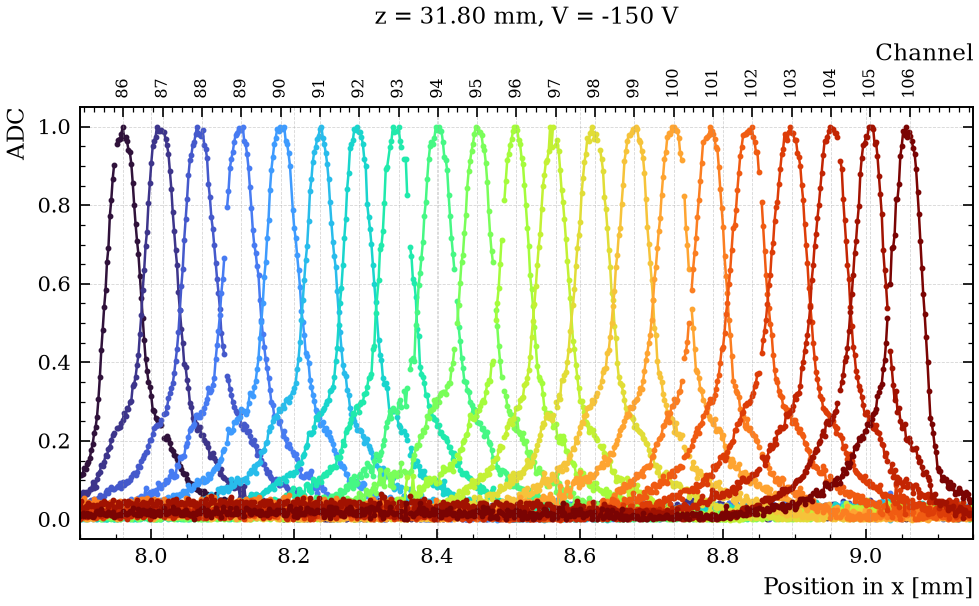
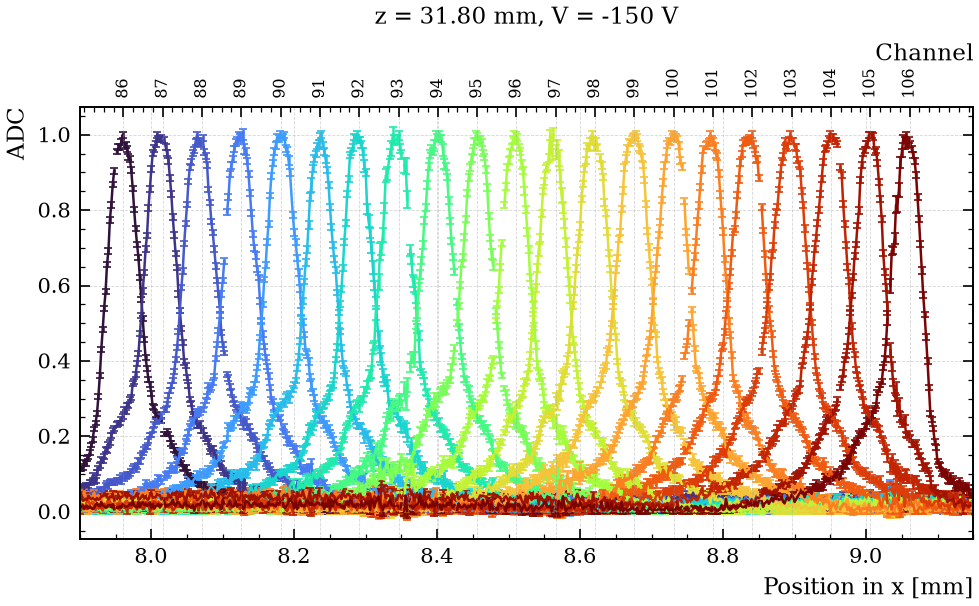
ana

diff --git a/bias_scan.py b/bias_scan.py
@@ -1,0 +1,86 @@
+"""
+Example analysis: mean cleaned ADC against channel, over all runs.
+
+    python3 adc_vs_channel_ana.py data/*.csv -ped pedestals.csv \
+        -plots plots/ -conf config_example.toml -cache cache/run.parquet
+"""
+
+import matplotlib.pyplot as plt
+import matplotlib.ticker as tck
+import pandas as pd
+import numpy as np
+import warnings
+from scipy.optimize import curve_fit
+from scipy.optimize import OptimizeWarning
+
+from base_analysis import BaseAnalysis, isdir
+from fits import box_gaussian
+
+ADC_CLEAN = "adc_clean"   # per run and channel: value = mean ADC, error = its standard error
+
+
+class BiasScan(BaseAnalysis):
+    CACHE_TAG = "bias_scan"
+    CACHE_VERSION = 1
+    QUANTITIES = (ADC_CLEAN,)
+    # plot() writes ch_to_x to the config, so a change of it must not count as a new setting here
+    PLOT_KEYS = BaseAnalysis.PLOT_KEYS + ("ch_to_x",)
+
+    def process(self, df: pd.DataFrame, df_id: int, z: float, x: float) -> None:
+
+        # ADC mean per channel with voltage
+        mean_per_channel = df.groupby("channel")["adc_clean"].agg(value="mean", error="sem").reset_index()
+        self.add(ADC_CLEAN, mean_per_channel, z=z, x=x, voltage=df["voltage"].iloc[0])
+
+    def plot(self) -> None:
+        # Define subdirs
+        fitdir = isdir(self.plotdir / "fits")
+        biasdir = isdir(self.plotdir / "bias")
+
+        """" --------------- HITS PLOTS ---------------"""
+
+
+        d = self.get(ADC_CLEAN)
+        voltages = d.groupby("voltage")
+        # cmap = plt.get_cmap("turbo", len(active))   # discrete: one colour per channel
+        for volt, v_df in voltages:
+            zs = v_df.groupby("z")
+            for z, z_df in zs:
+                sigmas = {} # Holds the width of the knife-edge scan
+                chs = z_df.groupby("channel")
+                for ch_id, ch_df in chs:
+                    fig_fit, ax_fit = plt.subplots(1,1)
+                    # Fit signal and get the stdev
+                    keys = sorted(ch_df) # increasing x
+                    x = np.array(keys, dtype=float)
+                    raw_adc = np.array([ch_df[k] for k in keys], dtype=float)
+                    mean_adc = np.abs(raw_adc)
+                    ax_fit.plot(x, raw_adc, "o", ms=3, label=f"z = {z:.2f} mm")
+                    argmax = np.argmax(mean_adc) # SIGNAL IS ABS SO MAX
+                    peak = mean_adc[argmax]
+                    base = 0 # Assume 0 baseline
+                    above = x[mean_adc > base + peak/2]
+                    w = above.max() - above.min() if above.size > 1 else self.cfg.pitch / 2
+                    p0 = [peak - base, x[argmax], w, max(w/10, np.diff(x).min()), base]
+                    lo = [0, x.min(), 0, 1e-4, -np.inf]
+                    hi = [np.inf, x.max(), np.ptp(x), np.ptp(x), np.inf]
+                    try:
+                        with warnings.catch_warnings():
+                            warnings.simplefilter("error", RuntimeWarning)
+                            warnings.simplefilter("error", OptimizeWarning)
+                            popt, pcov = curve_fit(
+                                box_gaussian, x, mean_adc, 
+                                p0=p0, bounds=(lo, hi), maxfev=10000)
+                        xf = np.linspace(x.min(), x.max(), 500)
+                        ax_fit.plot(xf, np.sign(raw_adc.sum()) * box_gaussian(xf, *popt), "--")
+                        zs[ch_id].append(z)
+                        sigmas[ch_id].append(abs(popt[3]))
+                    except (RuntimeError, RuntimeWarning, OptimizeWarning, ValueError) as err:
+                        print(f"Fit failed with {err}")
+                    fig_fit.savefig(fitdir / f"knife_z_{z}_volt_{volt}_ch_{ch_id}", dpi=150)
+
+        
+
+
+if __name__ == "__main__":
+    BiasScan().run()

diff --git a/knife-edge.py b/knife-edge.py
@@ -1,0 +1,63 @@
+"""
+Example analysis: mean cleaned ADC against channel, over all runs.
+
+    python3 adc_vs_channel_ana.py data/*.csv -ped pedestals.csv \
+        -plots plots/ -conf config_example.toml -cache cache/run.parquet
+"""
+
+import matplotlib.pyplot as plt
+import matplotlib.ticker as tck
+import pandas as pd
+import numpy as np
+import warnings
+from scipy.optimize import curve_fit
+from scipy.optimize import OptimizeWarning
+
+from base_analysis import BaseAnalysis, isdir
+from fits import box_gaussian
+
+INTEGRALS = "integrals"   # integral over runs and channels: value = mean integral value, error = SEM
+
+
+class KnifeEdge(BaseAnalysis):
+    CACHE_TAG = "knife_edge"
+    CACHE_VERSION = 2   # 2: voltage key on adc_clean
+    QUANTITIES = (INTEGRALS,)
+    # plot() writes ch_to_x to the config, so a change of it must not count as a new setting here
+    PLOT_KEYS = BaseAnalysis.PLOT_KEYS + ("ch_to_x",)
+
+    # One file with x triggers
+    # Return the average over triggers
+    def process(self, df: pd.DataFrame, df_id: int, z: float, x: float) -> None:
+
+        window = df["channel"].between(self.cfg.chmin, self.cfg.chmax)
+        per_run = df[window].groupby("run")["adc_clean"].sum()
+        integrals = pd.DataFrame({
+            "value": [per_run.mean()],
+            "error": [per_run.sem()],
+        })
+        self.add(INTEGRALS, integrals, z=z, x=x, voltage=df["voltage"].iloc[0])
+
+    # Contains the data per position basically
+    def plot(self) -> None:
+        # Define subdirs
+        fitdir = isdir(self.plotdir / "fits")
+        hitsdir = isdir(self.plotdir / "hits")
+        adcdir = isdir(self.plotdir / "adc")
+
+        """" --------------- HITS PLOTS ---------------"""
+        d = self.get(INTEGRALS)
+        print(d)
+        d = d.astype({"x": float, "z": float, "value": float, "error": float,"voltage": float})
+        adc_x = d.pivot_table(index="x", columns="z", values="value", aggfunc="mean")
+        print(adc_x)
+        # err_x = d.pivot_table(index="x", columns="channel", values="error", aggfunc="mean")
+        # fig, ax = plt.subplots(1,1)
+        # ax.plot(adc_x.index, adc_x)
+        # fig.savefig(fitdir / "adc_plot.png", dpi=150)
+
+        
+
+
+if __name__ == "__main__":
+    KnifeEdge().run()

diff --git a/x-scan.py b/x-scan.py
@@ -191,7 +191,7 @@ class XScan(BaseAnalysis):
         frac = {}
         err_frac = {}
         for ch in active:
-            cols = [ch - 1, ch, ch + 1]
+            cols = [ch - 2, ch - 1, ch, ch + 1, ch + 2]
             q = charge.reindex(columns=cols)
             e = charge_err.reindex(columns=cols)
 
@@ -210,8 +210,8 @@ class XScan(BaseAnalysis):
             err_frac[ch] = np.sqrt(var)
         frac = pd.DataFrame(frac)
         err_frac = pd.DataFrame(err_frac)
-        self.plot_adc(frac, err_frac, active, visible, title, adcdir / "eta-function.png",
-                      ylabel="Charge fraction in channel")
+        self.plot_adc(100 * frac, 100 * err_frac, active, visible, title, adcdir / "eta-function.png",
+                      ylabel="Charge fraction [%]")
 
 
     def plot_adc(self, adc_x, err_x, active, visible, title, path, ylabel="ADC") -> None:
@@ -222,8 +222,8 @@ class XScan(BaseAnalysis):
         for i, ch in enumerate(active):
             colors[ch] = cmap(i)
             y, err = adc_x[ch], err_x[ch]
-            # ax.errorbar(adc_x.index, y, yerr=err, color=colors[ch])
-            ax.plot(adc_x.index, y, "-o", ms=2, color=colors[ch])
+            ax.errorbar(adc_x.index, y, yerr=err, color=colors[ch])
+            # ax.plot(adc_x.index, y, "-o", ms=2, color=colors[ch])
             # ax.fill_between(adc_x.index, y - err, y + err, color=colors[ch], alpha=1, lw=0)
         ax.set_xlim(self.cfg.xmin, self.cfg.xmax)
         ax.set_xlabel("Position in x [mm]")
